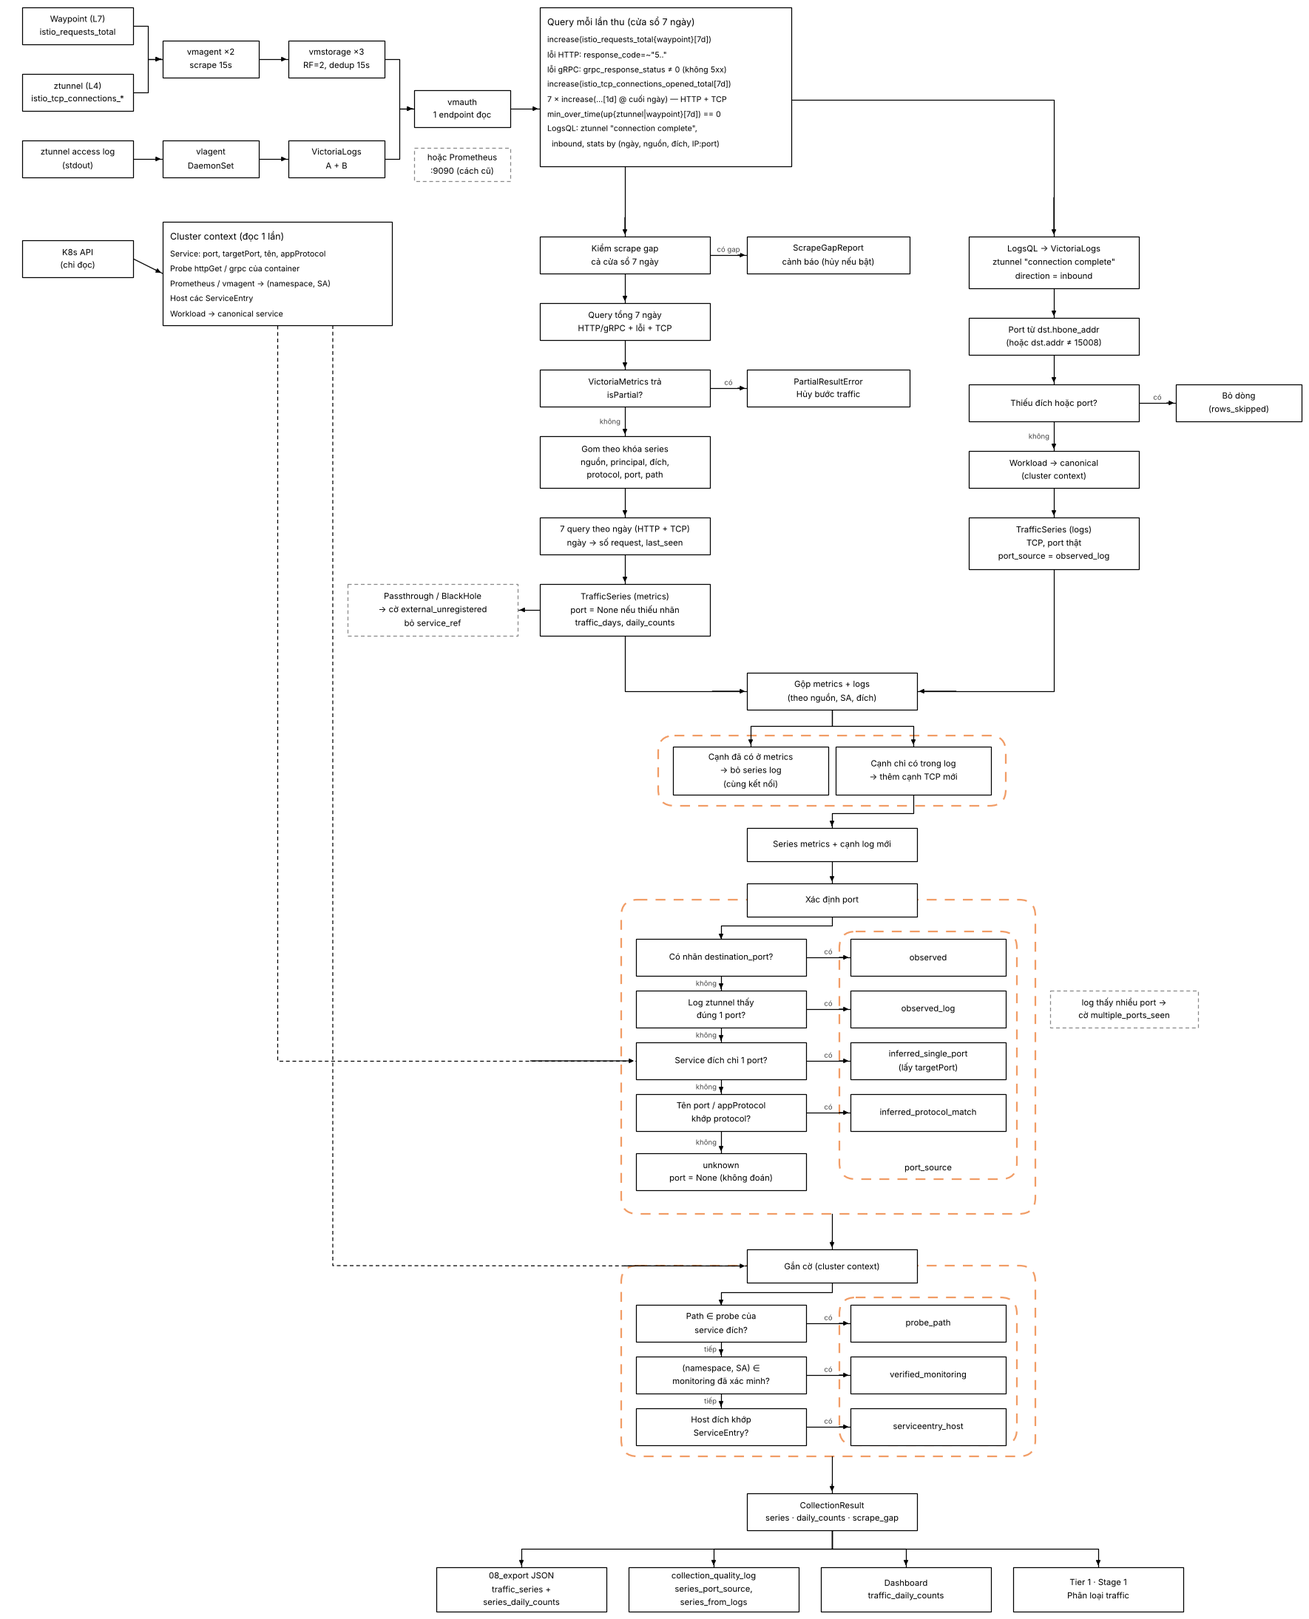
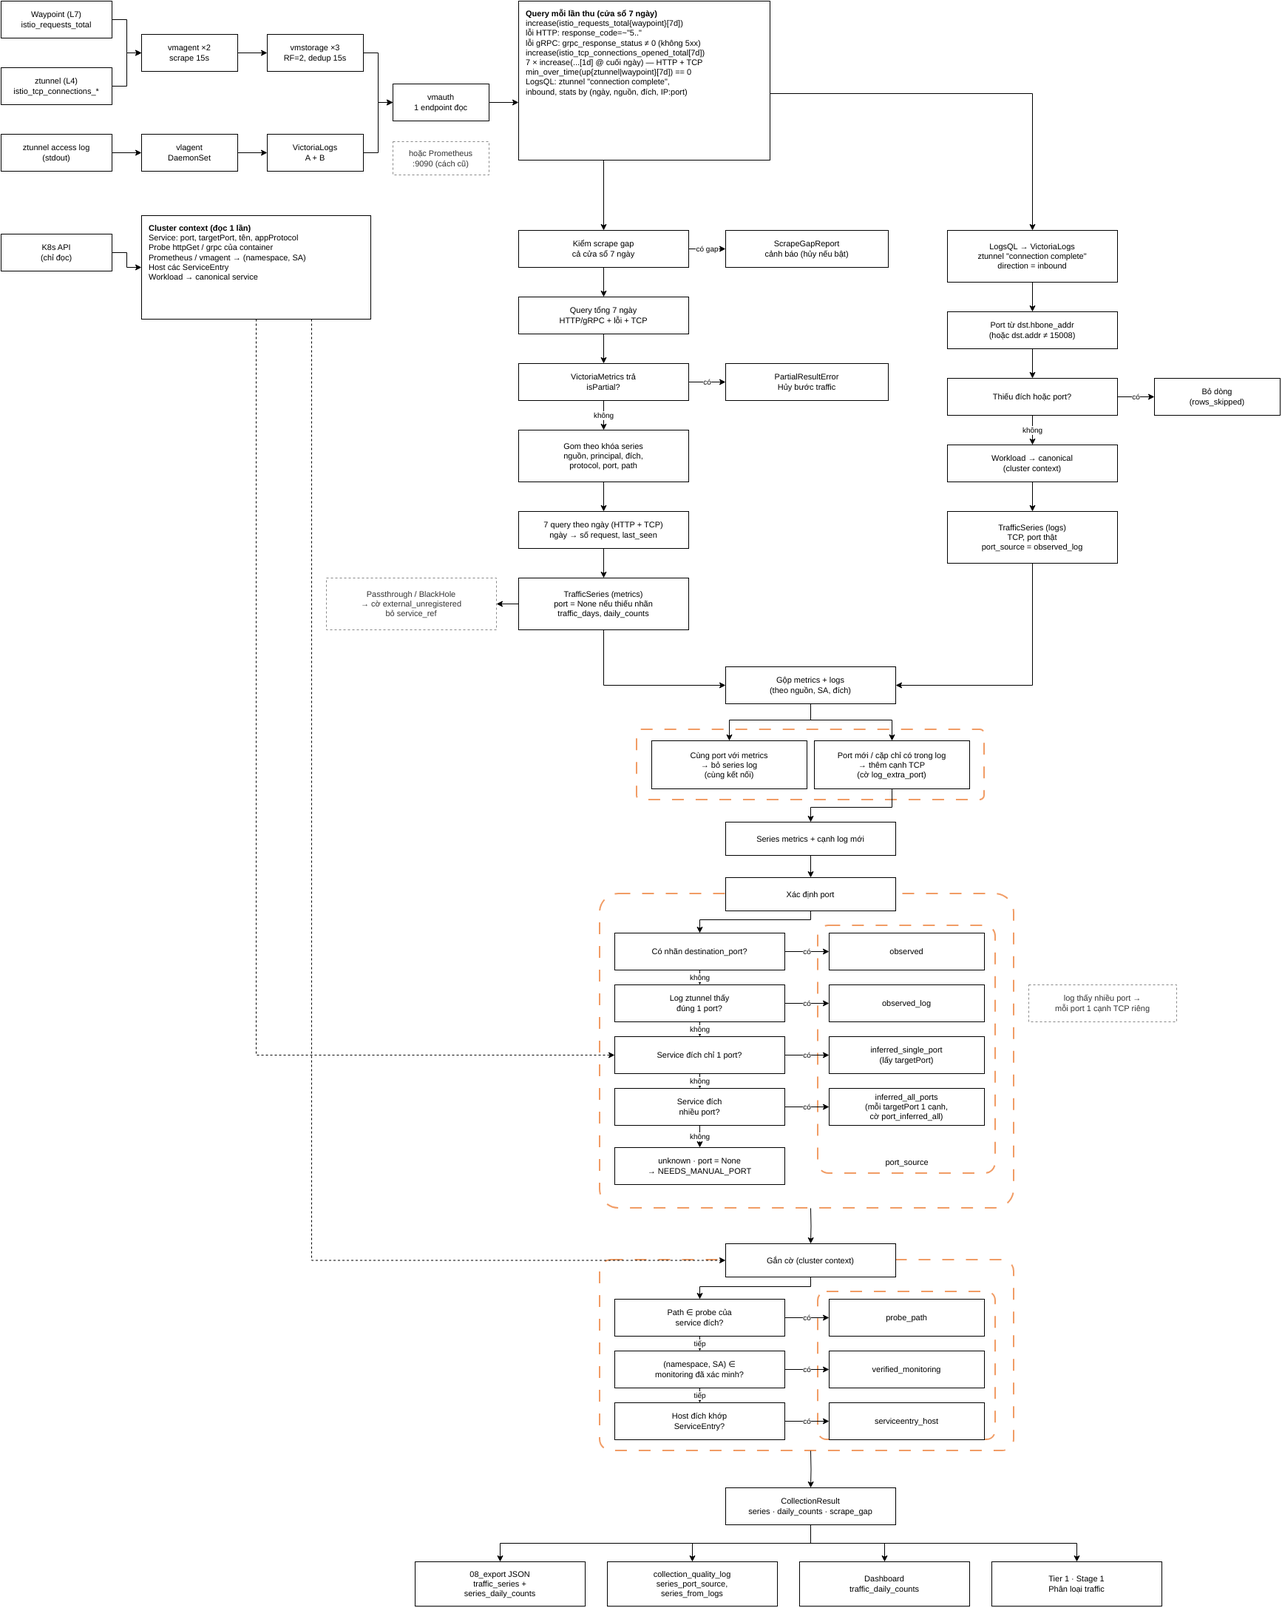
Tier 1: rút gọn xác định port còn 3 bước (chốt 18/11)
Quan sát (metrics, log) -> suy từ Service -> unknown.
- Service nhiều port: không đoán, mỗi targetPort một cạnh, port_source
  inferred_all_ports, cờ port_inferred_all; daily_counts nhân theo.
- Bỏ inferred_protocol_match (_port_matches_protocol, _PORT_PROTOCOL_PREFIXES).
- Docs: TIER1_DESIGN, TRANG_THAI_CHOT, handover 02/03 (bỏ PORT_CONFLICT và
  port_source=config khi merge PR #2); sơ đồ read_traffic, GĐ2 Tầng 1.

Claude-Session: https://claude.ai/code/session_01Qh8HZyJMZSLpjkw6EHKJQL

diff --git a/tier1_inference/tier1/cluster_context.py b/tier1_inference/tier1/cluster_context.py
@@ -19,19 +19,13 @@ chỉ đọc cờ, không gọi cluster.
 
 from __future__ import annotations
 
+import copy
 import fnmatch
 from dataclasses import dataclass, field
 from typing import Iterable, Optional
 
 from .schema import TrafficSeries, normalize_path
 
-# Tiền tố tên port / appProtocol (quy ước Istio "protocol selection") ứng với protocol
-# của traffic — dùng khi Service có nhiều port (mục 2.1b, inferred_protocol_match).
-_PORT_PROTOCOL_PREFIXES: dict[str, tuple[str, ...]] = {
-    "GRPC": ("grpc", "http2", "h2c"),
-    "HTTP": ("http", "http2", "h2c"),
-    "TCP": ("tcp", "redis", "mongo", "mysql", "postgres", "tls", "kafka"),
-}
 
 # Nhãn pod nhận diện công cụ monitoring (bổ sung cho Service khai ở `monitoring_services`).
 _MONITORING_APP_LABELS = ("prometheus", "vmagent")
@@ -114,47 +108,54 @@ def build_cluster_context(
     return ctx
 
 
-def _port_matches_protocol(spec: PortSpec, protocol: str) -> bool:
-    prefixes = _PORT_PROTOCOL_PREFIXES.get(protocol.upper(), ())
-    for label in (spec.app_protocol, spec.name):
-        if not label:
-            continue
-        low = label.lower()
-        if any(low == p or low.startswith(p + "-") or low.startswith(p + "_") for p in prefixes):
-            return True
-    return False
+def infer_port(series: TrafficSeries, ctx: ClusterContext) -> list[int]:
+    """mục 2.1b (chốt 18/11, 3 bước: quan sát → suy từ Service → không xác định).
 
-
-def infer_port(series: TrafficSeries, ctx: ClusterContext) -> None:
-    """mục 2.1b — chỉ chạy khi `series.port is None`. Không đoán: không chọn được thì để
-    None + `port_source = unknown`."""
+    Chỉ suy khi `series.port is None` (port quan sát được luôn thắng):
+    - Service đích 1 port -> targetPort đó, `inferred_single_port`.
+    - Service đích nhiều port -> KHÔNG đoán một port (bỏ bước khớp giao thức cũ, vì chọn
+      một port là chặn các port còn lại -> FN): gán port đầu, `inferred_all_ports`, cờ
+      `port_inferred_all`, và TRẢ VỀ các targetPort còn lại để caller sinh mỗi port một cạnh.
+    - Không có Service -> giữ None, `port_source = unknown` (người duyệt nhập port)."""
     if series.port is not None:
         if series.port_source == "unknown":
             series.port_source = "observed"
-        return
+        return []
     ref = series.destination_service_ref
     if ref is None:
-        return
+        return []
     ports = ctx.service_ports.get((ref.service_namespace, ref.service_name), [])
-    if len(ports) == 1:
-        series.port = ports[0].target_port
+    targets = sorted({p.target_port for p in ports if p.target_port is not None})
+    if len(targets) == 1:
+        series.port = targets[0]
         series.port_source = "inferred_single_port"
-        return
-    matched = [p for p in ports if _port_matches_protocol(p, series.protocol)]
-    if len(matched) == 1:
-        series.port = matched[0].target_port
-        series.port_source = "inferred_protocol_match"
+        return []
+    if len(targets) > 1:
+        series.port = targets[0]
+        series.port_source = "inferred_all_ports"
+        series.add_flag("port_inferred_all")
+        return targets[1:]
+    return []
 
 
-def annotate_series(series_list: list[TrafficSeries], ctx: Optional[ClusterContext]) -> list[TrafficSeries]:
+def annotate_series(
+    series_list: list[TrafficSeries],
+    ctx: Optional[ClusterContext],
+    daily: Optional[list] = None,
+) -> list[TrafficSeries]:
     """Gắn port suy ra + cờ `probe_path` / `verified_monitoring` / `serviceentry_host`.
-    Sửa tại chỗ và trả lại chính list đó. `ctx=None` -> chỉ chuẩn hóa `port_source`."""
-    for s in series_list:
+    Sửa tại chỗ và trả lại chính list đó. `ctx=None` -> chỉ chuẩn hóa `port_source`.
+
+    Service nhiều port: series được nhân thành mỗi targetPort một series (thêm vào CUỐI
+    `series_list`); nếu truyền `daily` (song song với series_list) thì số đếm theo ngày cũng
+    được nhân theo, để hai list vẫn khớp chỉ số."""
+    extras: list[tuple[int, int]] = []
+    for idx, s in enumerate(series_list):
         if ctx is None:
             if s.port is not None and s.port_source == "unknown":
                 s.port_source = "observed"
             continue
-        infer_port(s, ctx)
+        extras.extend((idx, p) for p in infer_port(s, ctx))
         if s.path is not None and s.path_norm in ctx.probe_paths.get(
             (s.destination_namespace, s.destination_canonical_service), set()
         ):
@@ -163,4 +164,10 @@ def annotate_series(series_list: list[TrafficSeries], ctx: Optional[ClusterConte
             s.add_flag("verified_monitoring")
         if ctx.matches_serviceentry(s.destination_service_host):
             s.add_flag("serviceentry_host")
+    for idx, port in extras:
+        clone = copy.deepcopy(series_list[idx])
+        clone.port = port
+        series_list.append(clone)
+        if daily is not None:
+            daily.append(dict(daily[idx]))
     return series_list

diff --git a/tier1_inference/tests/test_cluster_context.py b/tier1_inference/tests/test_cluster_context.py
@@ -77,18 +77,29 @@ def test_port_inferred_from_targetport_not_service_port():
     assert s.port == 8080  # targetPort (port pod thật), không phải port 80 của Service
 
 
-def test_port_inferred_by_protocol_match_on_multi_port_service():
+def test_multi_port_service_yields_one_edge_per_target_port():
+    """Chốt 18/11: Service nhiều port -> không đoán (bỏ khớp giao thức), mỗi targetPort một cạnh, có cờ."""
     ctx = build_cluster_context(_reader())
     s = make_series(dest="multi", dest_ns=NS, port=None, protocol="GRPC",
                     destination_service_ref=ServiceRef("multi", NS))
-    annotate_series([s], ctx)
-    assert (s.port, s.port_source) == (9090, "inferred_protocol_match")
+    out = annotate_series([s], ctx)
+    assert sorted((x.port, x.port_source) for x in out) == [(8080, "inferred_all_ports"), (9090, "inferred_all_ports")]
+    assert all("port_inferred_all" in x.flags for x in out)
 
 
-def test_port_unknown_when_ambiguous_never_guessed():
+def test_multi_port_split_keeps_daily_counts_aligned():
     ctx = build_cluster_context(_reader())
     s = make_series(dest="ambiguous", dest_ns=NS, port=None, protocol="HTTP",
                     destination_service_ref=ServiceRef("ambiguous", NS))
+    daily = [{"2026-10-07": 3}]
+    out = annotate_series([s], ctx, daily)
+    assert [x.port for x in out] == [8080, 9090]
+    assert daily == [{"2026-10-07": 3}, {"2026-10-07": 3}] and daily[0] is not daily[1]
+
+
+def test_port_unknown_without_service_ref():
+    ctx = build_cluster_context(_reader())
+    s = make_series(dest="nowhere", dest_ns=NS, port=None, protocol="TCP", destination_service_ref=None)
     annotate_series([s], ctx)
     assert (s.port, s.port_source) == (None, "unknown")
 

diff --git a/tier1_inference/tier1/schema.py b/tier1_inference/tier1/schema.py
@@ -193,7 +193,7 @@ class TrafficSeries:
 
     # --- 15/10/2026 (TIER1_DESIGN.md mục 2.1) ---
     # port lấy từ đâu: observed (nhãn metric) | observed_log (access log ztunnel) |
-    # inferred_single_port | inferred_protocol_match (suy từ Service spec) | unknown
+    # inferred_single_port | inferred_all_ports (suy từ Service spec) | unknown
     port_source: str = "unknown"
     # các ngày (YYYY-MM-DD) có traffic trong cửa sổ — gộp cạnh lấy HỢP các ngày (mục 2b)
     traffic_days: list[str] = field(default_factory=list)

diff --git a/tier1_inference/tier1/aggregation.py b/tier1_inference/tier1/aggregation.py
@@ -83,7 +83,7 @@ class TrafficAggregate:
         return max(self.class_counts, key=lambda c: self.class_counts[c])
 
 
-_PORT_SOURCE_RANK = {"observed": 0, "observed_log": 1, "inferred_single_port": 2, "inferred_protocol_match": 3, "unknown": 9}
+_PORT_SOURCE_RANK = {"observed": 0, "observed_log": 1, "inferred_single_port": 2, "inferred_all_ports": 3, "unknown": 9}
 
 
 def aggregate_series(series_list: list[TrafficSeries]) -> dict[IdentityKey, TrafficAggregate]:

diff --git a/tier1_inference/tier1/traffic_collector.py b/tier1_inference/tier1/traffic_collector.py
@@ -500,6 +500,6 @@ def collect_traffic(
         daily.extend(kept_daily)
         log_added = len(kept)
 
-    annotate_series(series, context)
+    annotate_series(series, context, daily)
     return CollectionResult(series=series, scrape_gap=scrape_gap, daily_counts=daily,
                             log_rows_read=log_rows, log_series_added=log_added)

diff --git a/docs/design/TIER1_DESIGN.md b/docs/design/TIER1_DESIGN.md
@@ -173,9 +173,10 @@ traffic_class ∈ { BUSINESS, HEALTHCHECK, MONITORING, DNS, CONTROL_PLANE, UNKNO
 | `observed` | nhãn `destination_port` có trong metric (sau khi thêm tagOverride Telemetry — chỉ làm sau khi chụp snapshot) |
 | `observed_log` | access log ztunnel thấy **đúng 1** port cho cặp (bước gộp metrics + log); nhiều port → series metric giữ `None` + cờ `multiple_ports_seen`, **và (chốt 18/11) mỗi port log chưa có trên series metric nào của cặp thành một cạnh TCP riêng, cờ `log_extra_port`** |
 | `inferred_single_port` | Service đích (`destination_service_ref`) chỉ có 1 port → lấy `targetPort` |
-| `inferred_protocol_match` | Service có nhiều port → chọn port có `appProtocol` / tên (`grpc-*`, `http-*`) khớp `protocol` |
-| `config` | **(27/10)** 4 cách trên đều thất bại, config sạch của cặp có đúng 1 port → lấy port đó (cờ `port_from_config`); làm ở bước ghép config (`candidates.fill_port_from_config`) |
-| `unknown` | không chọn được → `port=None`, gắn cờ người duyệt; **không đoán** |
+| `inferred_all_ports` | **(chốt 18/11)** Service đích có nhiều port → **không đoán**: mỗi `targetPort` thành một cạnh riêng, cờ `port_inferred_all`; người duyệt loại port thừa (`annotate_series` nhân bản cả số đếm theo ngày) |
+| `unknown` | không có Service đích → `port=None`, vào hàng đợi `NEEDS_MANUAL_PORT`; **không đoán** |
+
+**Chốt 18/11 — rút còn 3 bước:** (1) quan sát (metric, log) → (2) suy từ Service (1 port: lấy targetPort; nhiều port: mỗi port một cạnh có cờ) → (3) không xác định. **Bỏ** `inferred_protocol_match` (chọn 1 port theo tên giao thức = chặn các port còn lại → FN), bỏ `port_source = config` và `PORT_CONFLICT` của PR #2. Lần chạy 02/11: 107/107 series có port đều là `inferred_single_port`, nên bỏ hai bước này không đổi kết quả đã có.
 
 Mục đích: (1) policy đầu ra cần port (mục 6) — không có port thì phải mở mọi port, trái Zero Trust; (2) đối chiếu với bằng chứng config, vốn đã có port (`targetPort`, CONFIG_EVIDENCE_COLLECTOR bước (d)). Việc tra cứu dùng **chung index cluster** của Collector. Khác bước (d) của Collector: bên đó đã có port trong chuỗi config, chỉ đổi port Service → targetPort; bên traffic chưa có port nào, phải suy từ Service.
 
@@ -438,15 +439,15 @@ Vì traffic đã thu không có nhãn port, port lấy theo mục 2.1b và mang 
 
 | Tình huống | Mã lý do |
 |---|---|
-| `multiple_ports_seen` | `PORT_CONFLICT` |
-| port **suy ra** (`inferred_*`) + `config_port_differs` | `PORT_CONFLICT` |
 | port `None` | `NEEDS_MANUAL_PORT` |
-| port **thấy được** lệch config | không chặn — config lệch đã thành dòng `NOT_OBSERVED` riêng (config dư, mục 1b) |
-| `inferred_protocol_match` không mâu thuẫn | không chặn, `port_source` hiện trên dashboard |
+| `inferred_all_ports` (cờ `port_inferred_all`) | không chặn; dashboard hiện cờ để người duyệt loại port thừa |
+| port lệch config | không chặn — config lệch đã thành dòng `NOT_OBSERVED` riêng (config dư, mục 1b) |
+
+(Chốt 18/11: bỏ `PORT_CONFLICT` — nhiều port thấy được nay đã tách thành nhiều cạnh, không còn "xung đột" phải chọn.)
 
 Hành động: `SUBMIT_PORT` (payload `port` 1..65535 = targetPort pod đích) hoặc `REJECT`. DB cũ có CHECK 11 mã → API khởi động tự dựng lại bảng `human_decisions` (giữ nguyên dữ liệu, `decisions_store.migrate_decision_checks`).
 
-Thứ tự nguồn port giữ nguyên: thấy được (metrics, log) → Service spec (1 port → khớp tên giao thức) → để trống. Hướng mở (chưa làm): dùng port trong config của bên gọi (đã đổi sang targetPort) làm nguồn trước bước suy theo tên giao thức — cần đưa config vào trước bước gộp cạnh.
+Thứ tự nguồn port (chốt 18/11): thấy được (metrics, log) → Service spec (1 port → targetPort; nhiều port → mỗi port một cạnh) → để trống.
 
 ---
 
@@ -502,7 +503,7 @@ Nếu tỷ lệ response lỗi (4xx/5xx) cao bất thường: `unstable = true` 
   "destination_service_ref": {"service_name": "payment", "service_namespace": "default"},
   "protocol": "TCP",
   "port": 8080,                         // null nếu port_source = "unknown"
-  "port_source": "inferred_single_port",// observed | observed_log | inferred_single_port | inferred_protocol_match | config | unknown
+  "port_source": "inferred_single_port",// observed | observed_log | inferred_single_port | inferred_all_ports | unknown
   "scope": "IN_CLUSTER",
   "traffic_class": "BUSINESS",
   "flags": [],                          // ví dụ "claimed_monitoring", "port_unknown"

diff --git a/docs/TRANG_THAI_CHOT.md b/docs/TRANG_THAI_CHOT.md
@@ -109,7 +109,7 @@ Config Evidence Collector **không phải một tầng**: nó chỉ cấp bằng
   - **MONITORING theo danh tính đã xác minh:** so (namespace, service account) lấy từ SPIFFE principal với tập tự phát hiện từ `prometheus_url` + label `app.kubernetes.io/name=prometheus` + khai báo trong config. Chỉ trùng tên thì gắn cờ `claimed_monitoring`, không trừ điểm (chống giả tên). **Yêu cầu:** Prometheus phải chạy trong mesh. Công cụ khác (Grafana, Kiali…) là phần mở rộng.
   - **Thí nghiệm — phương án (a):** khai báo SA `prometheus` của harness nhiễu monitoring vào danh sách đã xác minh trong config thí nghiệm; báo cáo ghi rõ.
   - **HEALTHCHECK 3 tầng:** path lấy từ probe trong pod spec (chính, cờ `probe_path`) + danh sách mặc định ngắn (`/health`, `/healthz`, `/readyz`, `/livez`, `/ready`, `/live`, `/metrics`, `grpc.health.v1.Health`) + đội vận hành tự thêm (`healthcheck_extra_paths`, YAML, sau này trên dashboard). So khớp theo segment cuối, không theo tiền tố. **gRPC reflection KHÔNG nằm trong danh sách mặc định** (chốt 18/10, xem trên).
-  - **Port:** `port = None` + `port_source`, thứ tự: `observed` (nhãn metric) → `observed_log` (access log ztunnel thấy đúng 1 port) → `inferred_single_port` → `inferred_protocol_match` (suy từ Service spec qua `destination_service_ref`) → `config` (27/10, xem dưới) → `unknown`. Cạnh `unknown` không được sinh "allow mọi port".
+  - **Port:** `port = None` + `port_source`, thứ tự: `observed` (nhãn metric) → `observed_log` (access log ztunnel thấy đúng 1 port) → `inferred_single_port` / `inferred_all_ports` (suy từ Service spec qua `destination_service_ref`; Service nhiều port → mỗi port một cạnh, cờ `port_inferred_all` — **chốt 18/11, bỏ khớp giao thức và nguồn config**) → `unknown`. Cạnh `unknown` không được sinh "allow mọi port".
   - **Ngày:** gộp cạnh lấy **hợp** `traffic_days`, không lấy max.
   - **Bỏ đặc trưng `protocol_diversity`** (luôn bằng 0,5 vì protocol nằm trong khóa cạnh); bù **bias −1,2 → −1,0** để điểm không đổi. Còn 6 đặc trưng.
 - **ĐÃ CHỐT (15/10) — khớp traffic với config, ✅ đã code (PR #1, 18/10)** (chi tiết: `TIER1_DESIGN.md` mục 1b):
@@ -139,7 +139,7 @@ Config Evidence Collector **không phải một tầng**: nó chỉ cấp bằng
 - **ĐÃ CHỐT (22/10) — cổng port ở cửa ra, ✅ đã code, 🟡 PR #2 (`tier1-port-gate`) chưa merge** (chi tiết: `TIER1_DESIGN.md` mục 2.1b, 6, dòng 23):
   - Tầng 1 **không chặn** cạnh thiếu/mâu thuẫn port ở cửa vào: vẫn chấm điểm và quyết trạng thái ("có quan hệ không" độc lập với "mở cửa nào"), chỉ gắn cờ `port_unresolved`, `config_port_differs`, `multiple_ports_seen`.
   - Hàng đợi review (vai Planner) chặn **ở cửa ra**, chỉ với cạnh sắp sinh rule (STRONG, Tầng 2 CONFIDENT, NEEDS_MANUAL_SELECTOR, cạnh có `auto_allow_reason`):
-    - `multiple_ports_seen`, hoặc port **suy ra** (`inferred_*`) + `config_port_differs` → `PORT_CONFLICT`;
+    - ~~`multiple_ports_seen` / port suy ra lệch config → `PORT_CONFLICT`~~ — **bỏ (18/11)**: nhiều port nay tách thành nhiều cạnh; khi merge PR #2 phải gỡ `PORT_CONFLICT` và `port_source = config`;
     - port `None` → `NEEDS_MANUAL_PORT`;
     - port **thấy được** lệch config → không chặn (config lệch đã thành dòng `NOT_OBSERVED` riêng).
   - Người duyệt xử lý bằng hành động `SUBMIT_PORT` (payload `port` 1..65535 = targetPort pod đích) hoặc `REJECT`. API tự dựng lại bảng `human_decisions` cho DB cũ (giữ dữ liệu).

diff --git a/docs/handover/02_SYSTEM_ARCHITECTURE.md b/docs/handover/02_SYSTEM_ARCHITECTURE.md
@@ -68,7 +68,7 @@ Thứ tự trong `run_tier1`: chuẩn hóa series → phân loại từng series
 - `identity_key` 7 phần: (ns nguồn, svc nguồn, SA nguồn, ns đích, svc đích, protocol, port). `pair_key` 4 phần: (ns, svc, ns đích, svc đích); đích chưa phân giải = `raw:<host>`.
 - Điểm: `sigmoid(−1,0 + 0,9·recency + 1,1·log_volume + 1,0·distinct_days_ratio − 1,6·healthcheck_ratio − 1,6·monitoring_ratio + 0,8·config_match_strength)`; `volume_reference = 1.674.596` cố định.
 - Trạng thái: count=0 → NOT_OBSERVED (config sạch → người duyệt; UNRESOLVED/NOT_FOUND → Tầng 2) · toàn nhiễu → monitoring đã xác minh tự mở / còn lại người duyệt · ≥50% UNKNOWN → UNKNOWN · hysteresis θ_promote 0,68 / θ_demote 0,58.
-- Port: `observed` → `observed_log` → `inferred_single_port` → `inferred_protocol_match` → (`config`, chỉ ở PR #2) → `unknown`.
+- Port (chốt 18/11, 3 bước): quan sát (`observed`, `observed_log`; mỗi port log một cạnh) → suy từ Service (`inferred_single_port`; nhiều port → `inferred_all_ports`, mỗi port một cạnh) → `unknown` (`NEEDS_MANUAL_PORT`). Đã bỏ `inferred_protocol_match`, `config`, `PORT_CONFLICT`.
 
 ## 5. Tầng 2 — code thật tại `556df77` (v3)
 

diff --git a/docs/handover/03_IMPLEMENTATION_STATUS.md b/docs/handover/03_IMPLEMENTATION_STATUS.md
@@ -7,7 +7,7 @@ DONE chỉ ghi khi có bằng chứng (commit, test, hoặc lần chạy thật 
 | Nhánh | HEAD | Nội dung | Trạng thái |
 |---|---|---|---|
 | `main` | `50a99bd` | Merge PR #1 (`fee1bd9`, Tầng 1 code lại theo chốt 15/10 + VictoriaMetrics/Logs), revert `cac079f` | Code chuẩn |
-| `tier1-port-gate` (PR #2) | — | Cổng port ở cửa ra (`NEEDS_MANUAL_PORT`, `PORT_CONFLICT`), `NOISE_ONLY_REVIEW`, `port_source = config` | **Chưa merge. Không merge khi Bin chưa nói.** Không có trong số liệu |
+| `tier1-port-gate` (PR #2) | — | Cổng port ở cửa ra (`NEEDS_MANUAL_PORT`, `PORT_CONFLICT`), `NOISE_ONLY_REVIEW`, `port_source = config` | **Chưa merge. Không merge khi Bin chưa nói.** Không có trong số liệu. Khi merge: gỡ `PORT_CONFLICT` và `port_source = config` (chốt 18/11) |
 | `tier1-refactor-victoria` | — | Nhánh của PR #1 | Đã merge |
 | `tier2-run-tooling` (PR #3) | `c62e37a` | Mọi việc Tầng 2 từ 02/11 + tài liệu bàn giao | Chưa merge |
 
